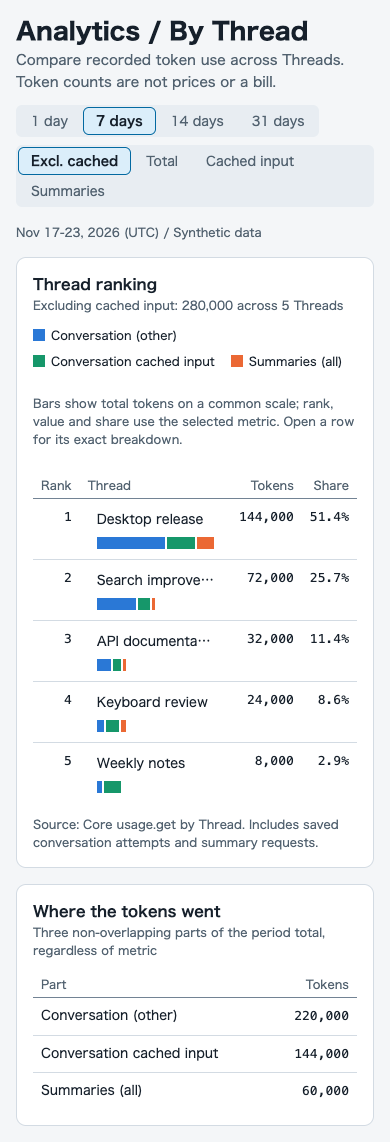
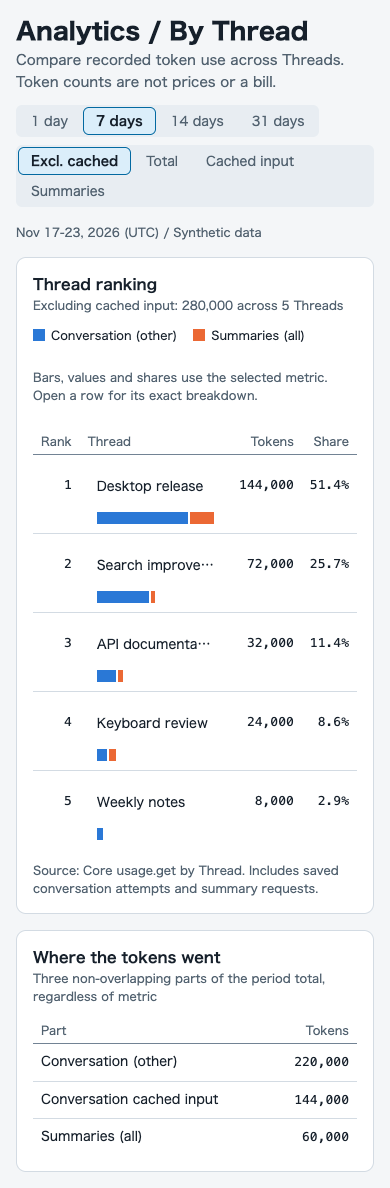
Scale Thread ranking bars by the selected metric

diff --git a/web/designs/console/mocks/cost-ranking.tsx b/web/designs/console/mocks/cost-ranking.tsx
@@ -18,11 +18,11 @@ const fixture = [
 type Thread = (typeof fixture)[number];
 const labels = ["Conversation (other)", "Conversation cached input", "Summaries (all)"];
 const metrics = [
-  { label: "Excl. cached", name: "Excluding cached input", value: ([other, , summary]: Thread["parts"]) => other + summary },
-  { label: "Total", name: "Total tokens", value: (parts: Thread["parts"]) => sum(parts) },
-  { label: "Cached input", name: "Conversation cached input", value: (parts: Thread["parts"]) => parts[1] },
-  { label: "Summaries", name: "Summary tokens", value: (parts: Thread["parts"]) => parts[2] },
-];
+  { label: "Excl. cached", name: "Excluding cached input", segments: [0, 2] },
+  { label: "Total", name: "Total tokens", segments: [0, 1, 2] },
+  { label: "Cached input", name: "Conversation cached input", segments: [1] },
+  { label: "Summaries", name: "Summary tokens", segments: [2] },
+] as const;
 const number = (value: number) => value.toLocaleString("en-US");
 const sampleScale = { 1: 0.125, 7: 1, 14: 1.5, 31: 2 };
 const sum = (values: readonly number[]) => values.reduce((a, b) => a + b, 0);
@@ -40,9 +40,11 @@ function Mock() {
   const complete = days !== 31;
   const scale = sampleScale[days];
   const metric = metrics[metricIndex]!;
-  const ranked = [...fixture].sort((a, b) => metric.value(b.parts) - metric.value(a.parts) || a.title.localeCompare(b.title));
-  const total = sum(fixture.map(item => metric.value(item.parts))) * scale;
-  const barMax = Math.max(...fixture.map(item => sum(item.parts)));
+  const segments: readonly number[] = metric.segments;
+  const valueOf = (item: Thread) => sum(segments.map(part => item.parts[part]!));
+  const ranked = [...fixture].sort((a, b) => valueOf(b) - valueOf(a) || a.title.localeCompare(b.title));
+  const total = sum(fixture.map(valueOf)) * scale;
+  const barMax = Math.max(1, ...fixture.map(valueOf));
   const parts = detail?.parts.map(value => value * scale);
   const dates = { 1: "Nov 23", 7: "Nov 17-23", 14: "Nov 10-23", 31: "Oct 24-Nov 23" };
   return <div class="ranking-mock">
@@ -62,20 +64,20 @@ function Mock() {
       source="Source: Core usage.get by Thread. Includes saved conversation attempts and summary requests.">
       {!complete ? <Notice tone="wait">Shares and ranks are unavailable until the period is fully read. This is not evidence of zero usage.</Notice> :
         <>
-          <ul class="ranking-legend" aria-label="Bar segments">{labels.map((label, index) => <li key={label}>
-            <span aria-hidden="true" class={`ranking-segment segment-${index + 1}`} />{label}</li>)}</ul>
-          <p class="caption muted">Bars show total tokens on a common scale; rank, value and share use the selected metric. Open a row for its exact breakdown.</p>
+          <ul class="ranking-legend" aria-label="Bar segments">{segments.map(index => <li key={index}>
+            <span aria-hidden="true" class={`ranking-segment segment-${index + 1}`} />{labels[index]}</li>)}</ul>
+          <p class="caption muted">Bars, values and shares use the selected metric. Open a row for its exact breakdown.</p>
           <div class="ranking-table"><DataTable flat caption={`Thread ranking by ${metric.name}`} columns={[
             { label: "Rank", numeric: true }, { label: "Thread" }, { label: "Tokens", numeric: true }, { label: "Share", numeric: true },
           ]} rows={ranked.map((item, index) => {
-            const tokens = metric.value(item.parts) * scale;
+            const tokens = valueOf(item) * scale;
             const fraction = total ? tokens / total : undefined;
             const share = fraction === undefined ? "—" : fraction > 0 && fraction < 0.001 ? "<0.1%" : `${(100 * fraction).toFixed(1).replace(/\.0$/, "")}%`;
             return { key: item.title, cells: [index + 1,
               <Button variant="ghost" title={item.title} aria-label={`Open breakdown for ${item.title}`} data-rank={index}
                 onClick={() => { trigger.current = item.title; setDetail(item); }}>
                 <span class="ranking-title">{item.title}</span>
-                <span class="ranking-bar" aria-hidden="true">{item.parts.map((value, part) => value ?
+                <span class="ranking-bar" aria-hidden="true">{item.parts.map((value, part) => value && segments.includes(part) ?
                   <span key={part} class={`ranking-segment segment-${part + 1}`} style={{ flexBasis: `${value / barMax * 100}%` }} /> : null)}</span>
               </Button>, number(tokens), share] };
           })} /></div>

diff --git a/web/designs/console/mocks/cost-ranking.css b/web/designs/console/mocks/cost-ranking.css
@@ -15,3 +15,10 @@ body{margin:0;background:var(--bg);color:var(--fg)}
 @media(max-width:42rem){
   .ranking-table button{grid-template-columns:minmax(0,1fr);gap:var(--space-4)}
 }
+
+/* Match the table's numeric cells to the first (name) track of the drill-in button. */
+.ranking-table tbody td{vertical-align:top}
+.ranking-table tbody td:not(:nth-child(2)) .cell{display:flex;align-items:center;justify-content:flex-end;min-block-size:var(--size-touch)}
+@media(max-width:42rem){
+  .ranking-table button{grid-template-rows:var(--size-touch) auto;grid-template-columns:minmax(0,1fr);padding-block:0}
+}

diff --git a/web/designs/console/mocks/cost-ranking.README.md b/web/designs/console/mocks/cost-ranking.README.md
@@ -6,4 +6,4 @@ From `web/`, run `npm ci` and `npm exec -- vite . --host 127.0.0.1 --port 4185 -
 
 The 7-day view is the screenshot state; select a ranked row for the per-Thread destination mock, or 31 days for the incomplete-scan state. The destination demonstrates context and return, not integration with the existing view. Both screenshots are full-page renders from isolated headless Chrome, not physical-device evidence.
 
-The default metric is conversation other plus all summaries; change the metric to reorder rows and recompute shares. The bars always show absolute composition on a common total-token scale. See [ranked bars](https://www.datawrapper.de/docs/how-to-create-a-bar-chart), [stacked bars](https://www.datawrapper.de/docs/how-to-create-a-stacked-bar-chart) and [shadcn Chart](https://ui.shadcn.com/docs/components/chart). Append `?theme=light` for the phone screenshot palette. The native table exposes values and provides the same detail action as tapping the bar.
+The default metric is conversation other plus all summaries; change the metric to reorder rows and recompute shares. The bars show only the chosen metric’s segments on a shared zero-based scale. See [ranked bars](https://www.datawrapper.de/docs/how-to-create-a-bar-chart), [stacked bars](https://www.datawrapper.de/docs/how-to-create-a-stacked-bar-chart) and [shadcn Chart](https://ui.shadcn.com/docs/components/chart). Append `?theme=light` for the phone screenshot palette. The native table exposes values and provides the same detail action as tapping the bar.
